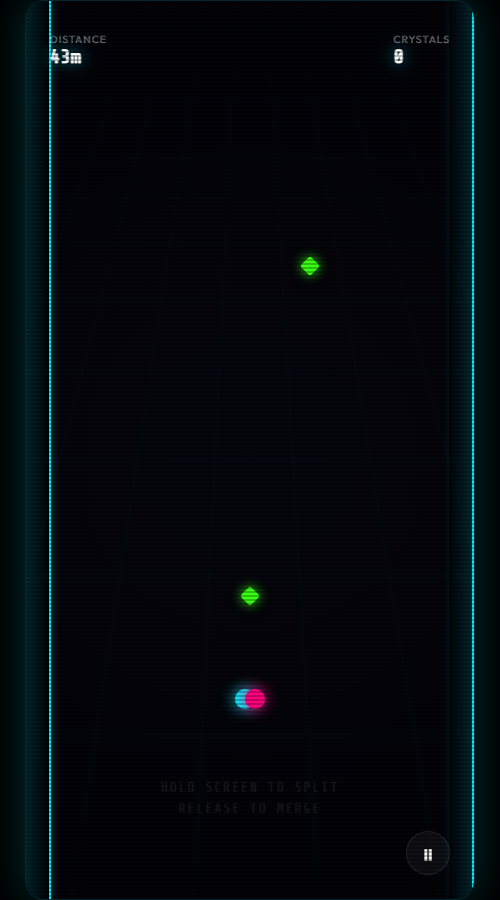
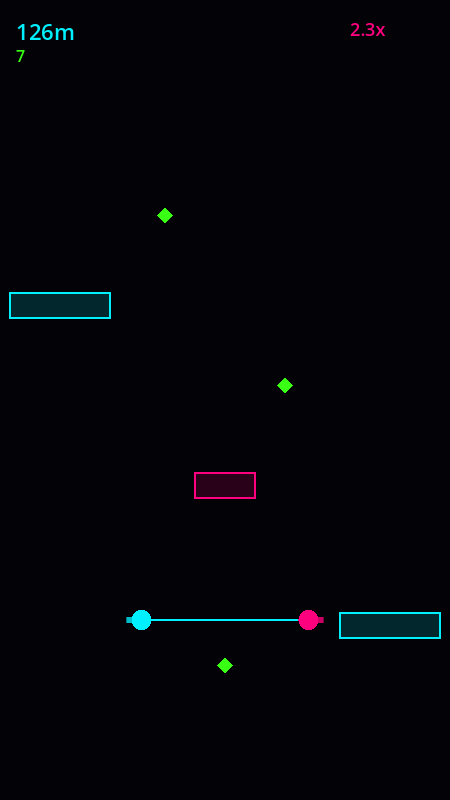
Catch up Neon Tether after the Godot production port (#52)
Replaced the browser-prototype screenshots with real captures from
the actual Godot build - gameplay with the new trail/combo VFX, the
menu, and the shop. Moved status from concept to in-development and
rewrote the process bullets to cover what actually shipped: the full
Godot port, achievements/missions/tutorial, the art-direction VFX
pass, and a signed Android build that's been played end to end.

diff --git a/src/content/projects.ts b/src/content/projects.ts
@@ -450,9 +450,9 @@ export const projects: Project[] = [
     },
     kind: "game-design",
     category: "game",
-    status: "concept",
+    status: "in-development",
     featured: false,
-    stack: ["Godot 4 (planned)", "HTML/CSS/JS prototype", "Web Audio API"],
+    stack: ["Godot 4 (GDScript)", "HTML/CSS/JS prototype", "Web Audio API"],
     role: { en: "Game designer / solo studio", es: "Diseñador de juegos / estudio en solitario" },
     summary: {
       en: "Two glowing spheres linked by an elastic tether descend an endless vertical pipeline. Hold to split wide, release to snap together — avoid obstacles, graze them for combo, collect Volt Crystals.",
@@ -462,23 +462,27 @@ export const projects: Project[] = [
       en: [
         "Full Game Design Document — core loop, progression via Volt Crystals, ethics-first monetization",
         "Engine evaluation across 6 stacks; selected Godot 4 for production (low input latency, native 2D shaders, ~12MB builds)",
-        "Working browser vertical slice validating the split/merge tether feel — synthesized audio (SFX + BGM), localStorage persistence, local leaderboard, consistent colorblind support",
-        "Roadmap, risk log, and decision log kept throughout design; Godot production port and QA scoped as next phase",
+        "Working browser vertical slice validated the split/merge tether feel before committing to the full engine port — synthesized audio, localStorage persistence, local leaderboard, consistent colorblind support",
+        "Ported the full game to Godot 4: the core mechanic, an AES-256 encrypted save system, a real shop economy, achievements with live progress tracking, daily missions, and a guided tutorial",
+        "Implemented the VFX the design doc always called for but neither build ever had — tapering tether trails, a snap-flash shockwave on merge, a particle shatter burst on crash",
+        "Built a signed Android debug APK and played it end-to-end on an emulator with real GPU acceleration, including tracking down and fixing a renderer-specific rendering bug along the way",
       ],
       es: [
         "Game Design Document completo — loop central, progresión vía Volt Crystals, monetización ética",
         "Evaluación de 6 motores; se eligió Godot 4 para producción (baja latencia de input, shaders 2D nativos, builds de ~12MB)",
-        "Vertical slice jugable en navegador validando la sensación de separar/unir el tether — audio sintetizado (SFX + música), persistencia con localStorage, leaderboard local, soporte colorblind consistente",
-        "Roadmap, registro de riesgos y bitácora de decisiones mantenidos durante todo el diseño; el port a Godot y QA quedan planteados como siguiente fase",
+        "Vertical slice jugable en navegador validó la sensación de separar/unir el tether antes de comprometerse al port completo — audio sintetizado, persistencia con localStorage, leaderboard local, soporte colorblind consistente",
+        "Port completo del juego a Godot 4: la mecánica central, guardado cifrado AES-256, una tienda real, logros con progreso en vivo, misiones diarias, y un tutorial guiado",
+        "Implementados los efectos visuales que el documento de diseño siempre pidió pero que ninguna versión anterior tuvo — estelas del tether, un destello de fusión, y una ráfaga de partículas al chocar",
+        "Build de Android firmado, instalado y jugado de principio a fin en un emulador con aceleración GPU real, incluyendo encontrar y arreglar un bug de renderizado en el camino",
       ],
     },
     metrics: [
       { label: { en: "Design docs", es: "Documentos de diseño" }, value: "17 files, ~105KB" },
-      { label: { en: "Prototype", es: "Prototipo" }, value: "Playable in-browser, persistent" },
+      { label: { en: "Godot build", es: "Build en Godot" }, value: "Full core loop + shop + achievements, Android APK verified" },
     ],
     links: [{ label: SOURCE_LABEL, href: "https://github.com/Kelvis123456/neon-tether-game-design", icon: "github" }],
     coverFit: "contain",
-    gallery: ["/images/neon-tether/combo.png", "/images/neon-tether/gameplay.png", "/images/neon-tether/menu.png"],
+    gallery: ["/images/neon-tether/gameplay.png", "/images/neon-tether/menu.png", "/images/neon-tether/shop.png"],
     accentColor: "#d6266e",
   },
 ];
